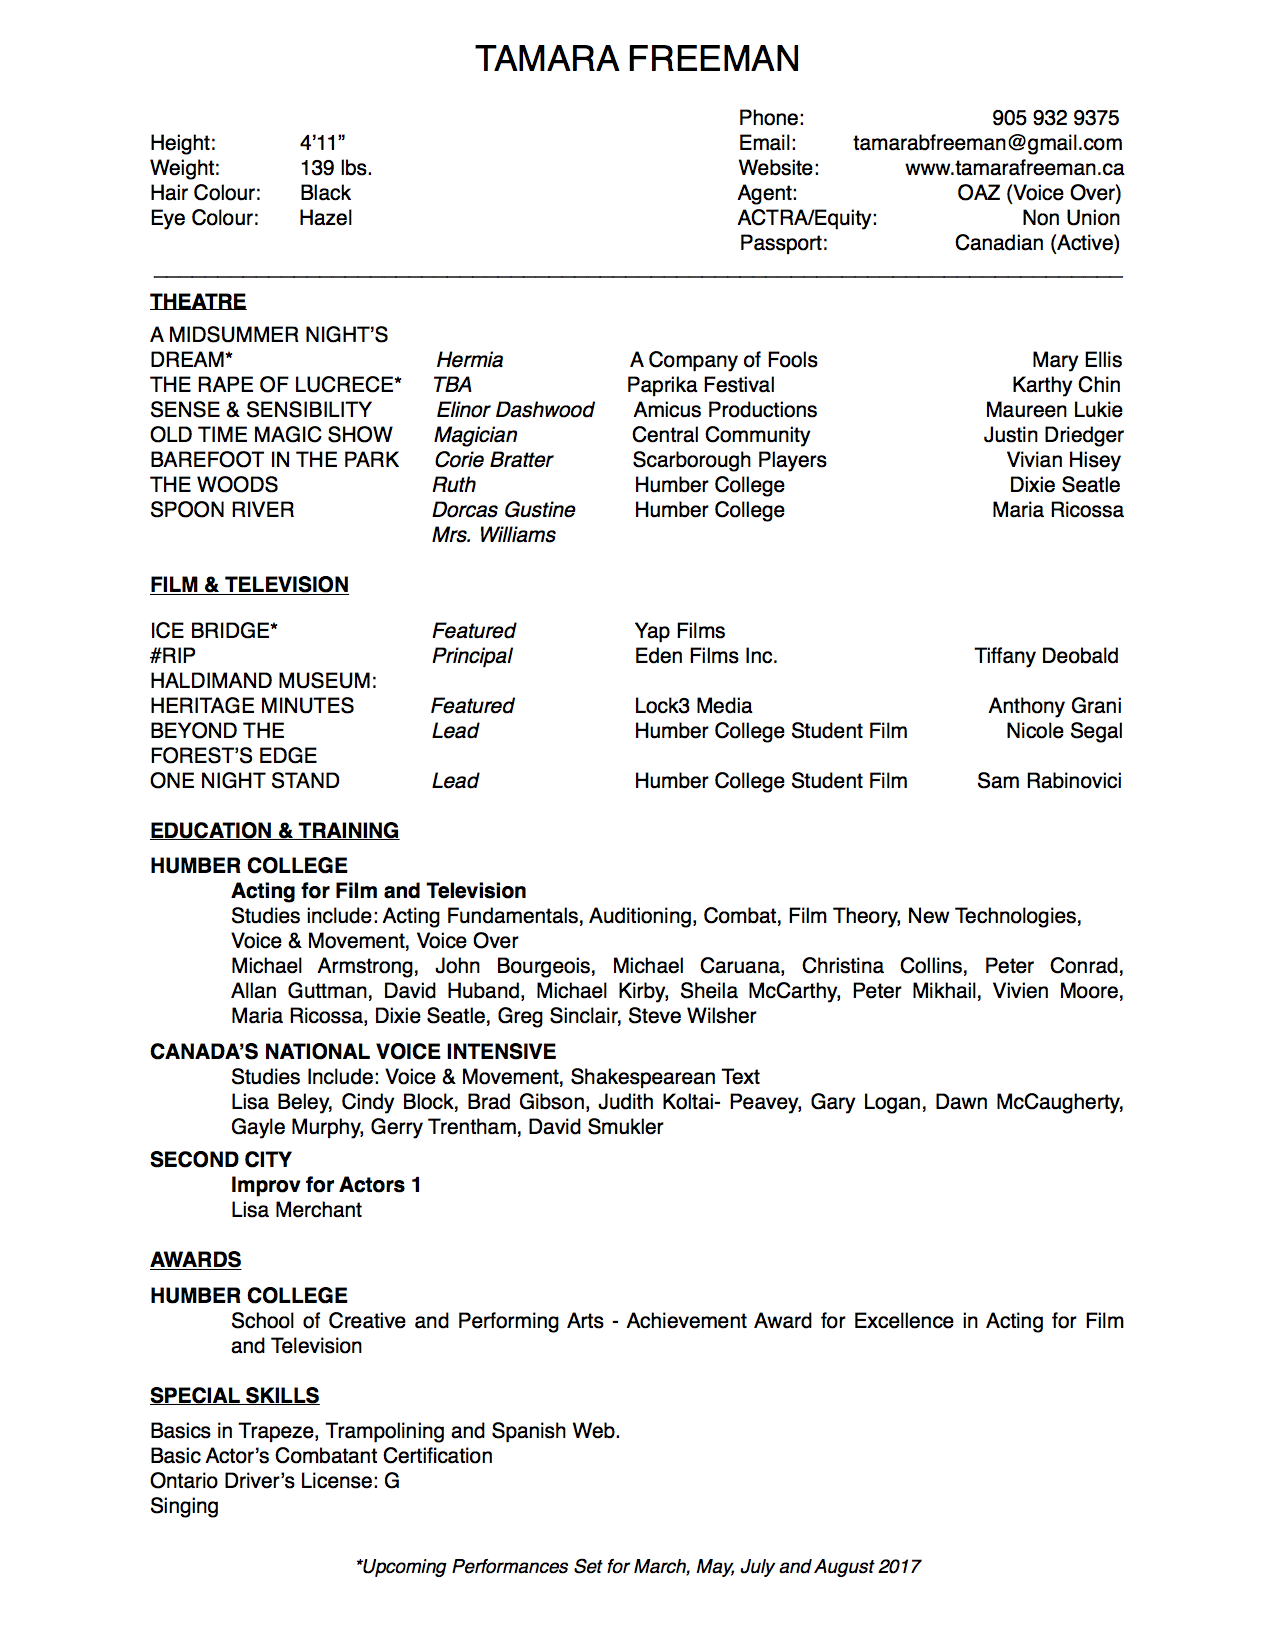
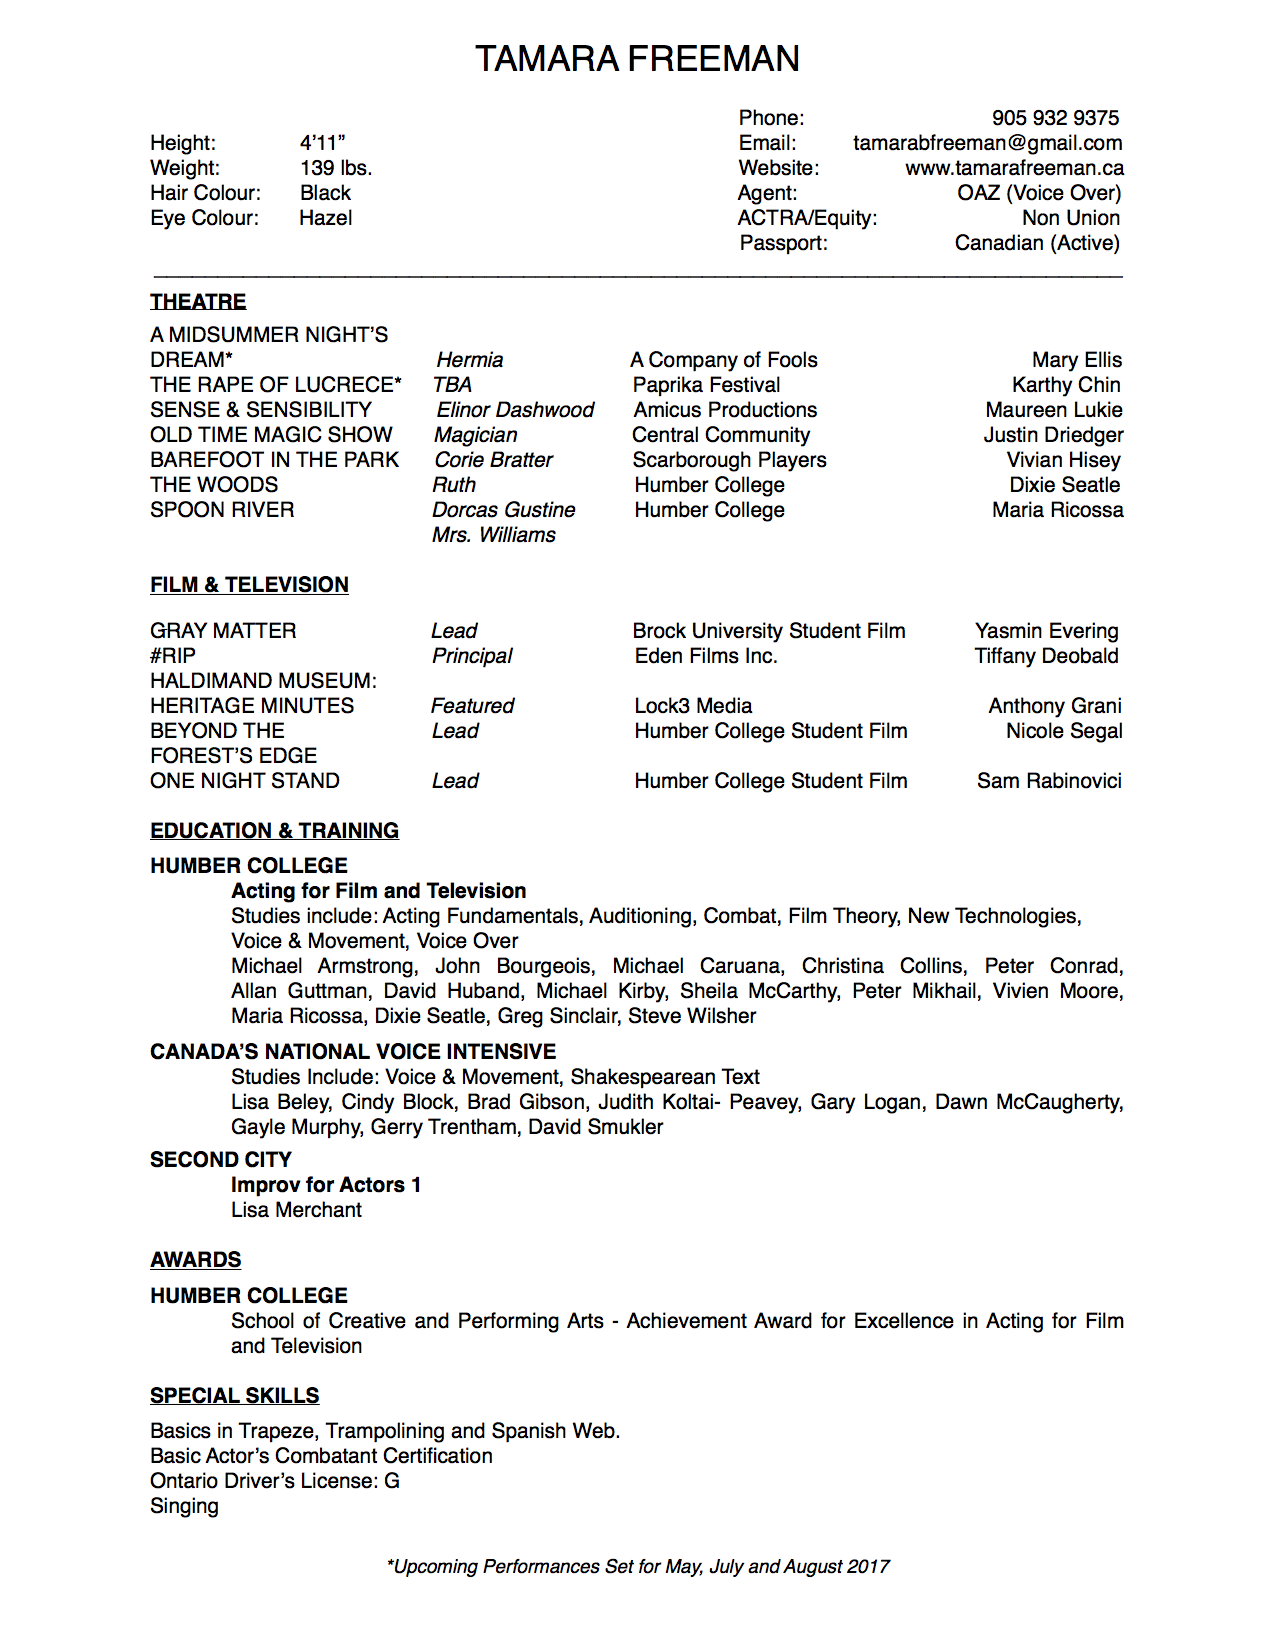
Removed Ice Bridge from resume

diff --git a/upcoming.html b/upcoming.html
@@ -21,11 +21,6 @@ navorder: 5
 				Paprika Festival<br>
 				May 2017</a><br>
 			</p>
-			<h1 class="production">Ice Bridge</h1>
-			<p>
-				Yap Films<br>
-				March, 2017</a><br>
-			</p>
 		</div>
 		<div class="headshot col-md-6 col-md-pull-6">
 		</div>
